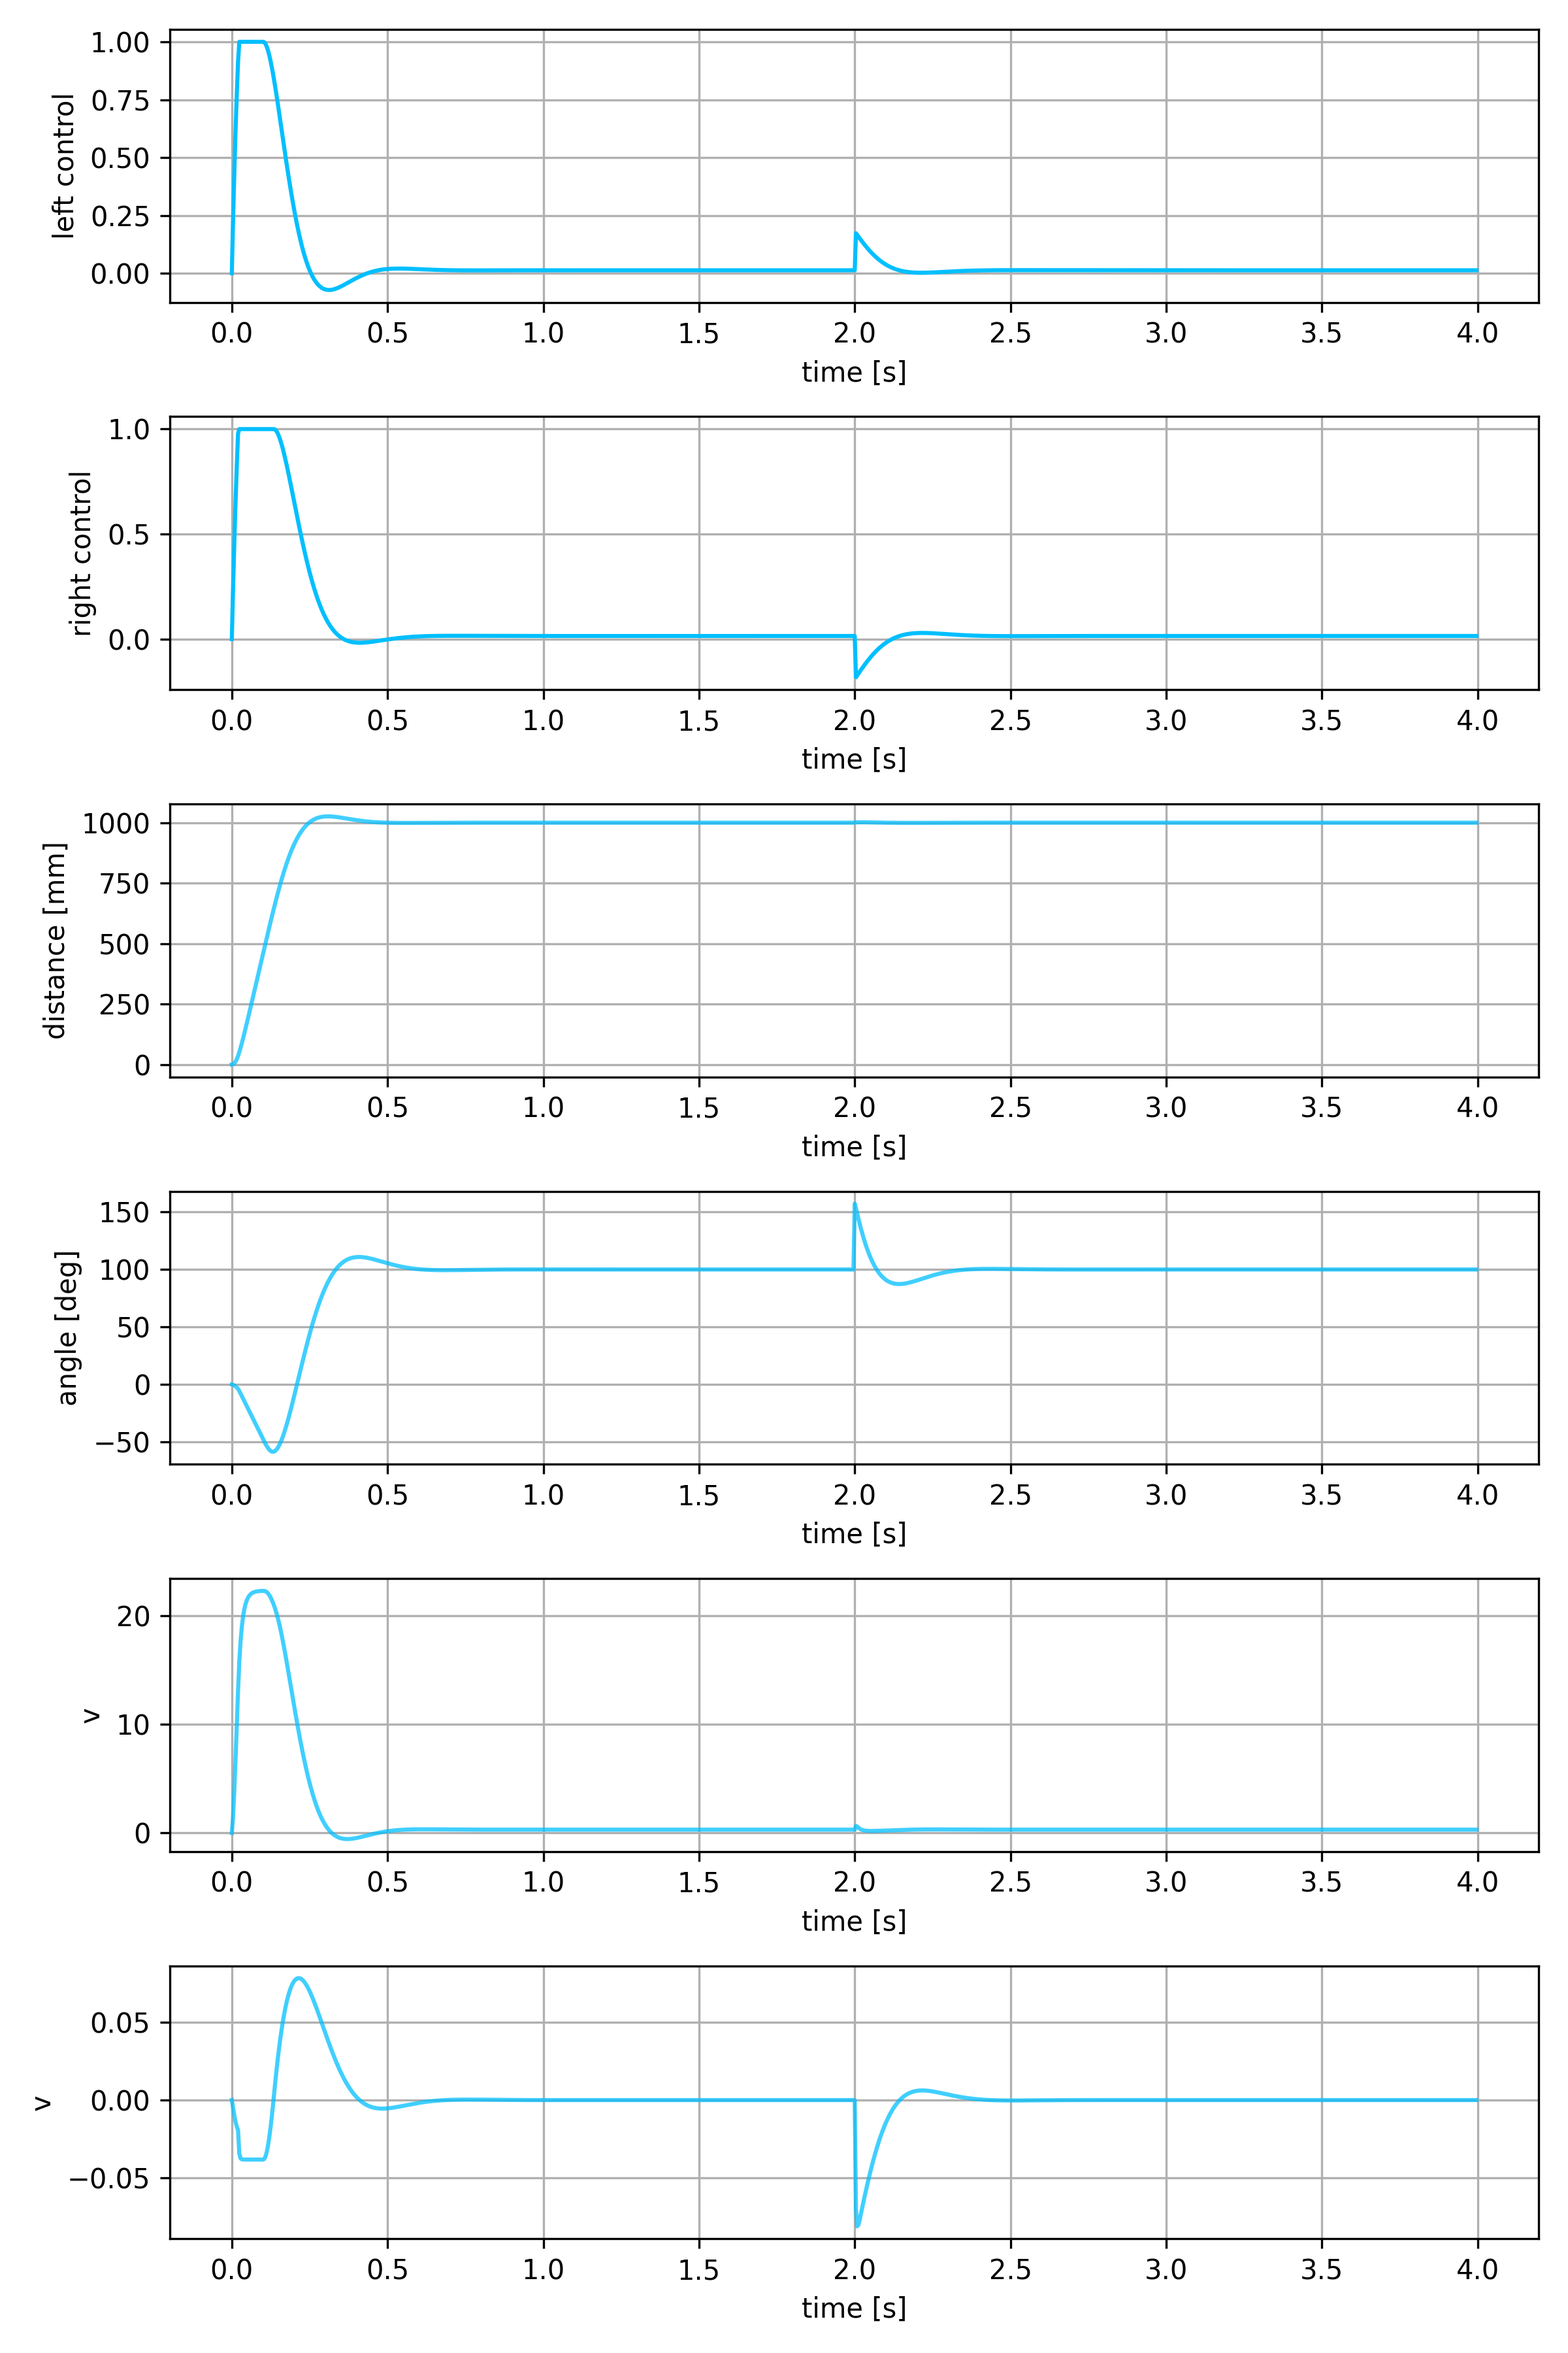
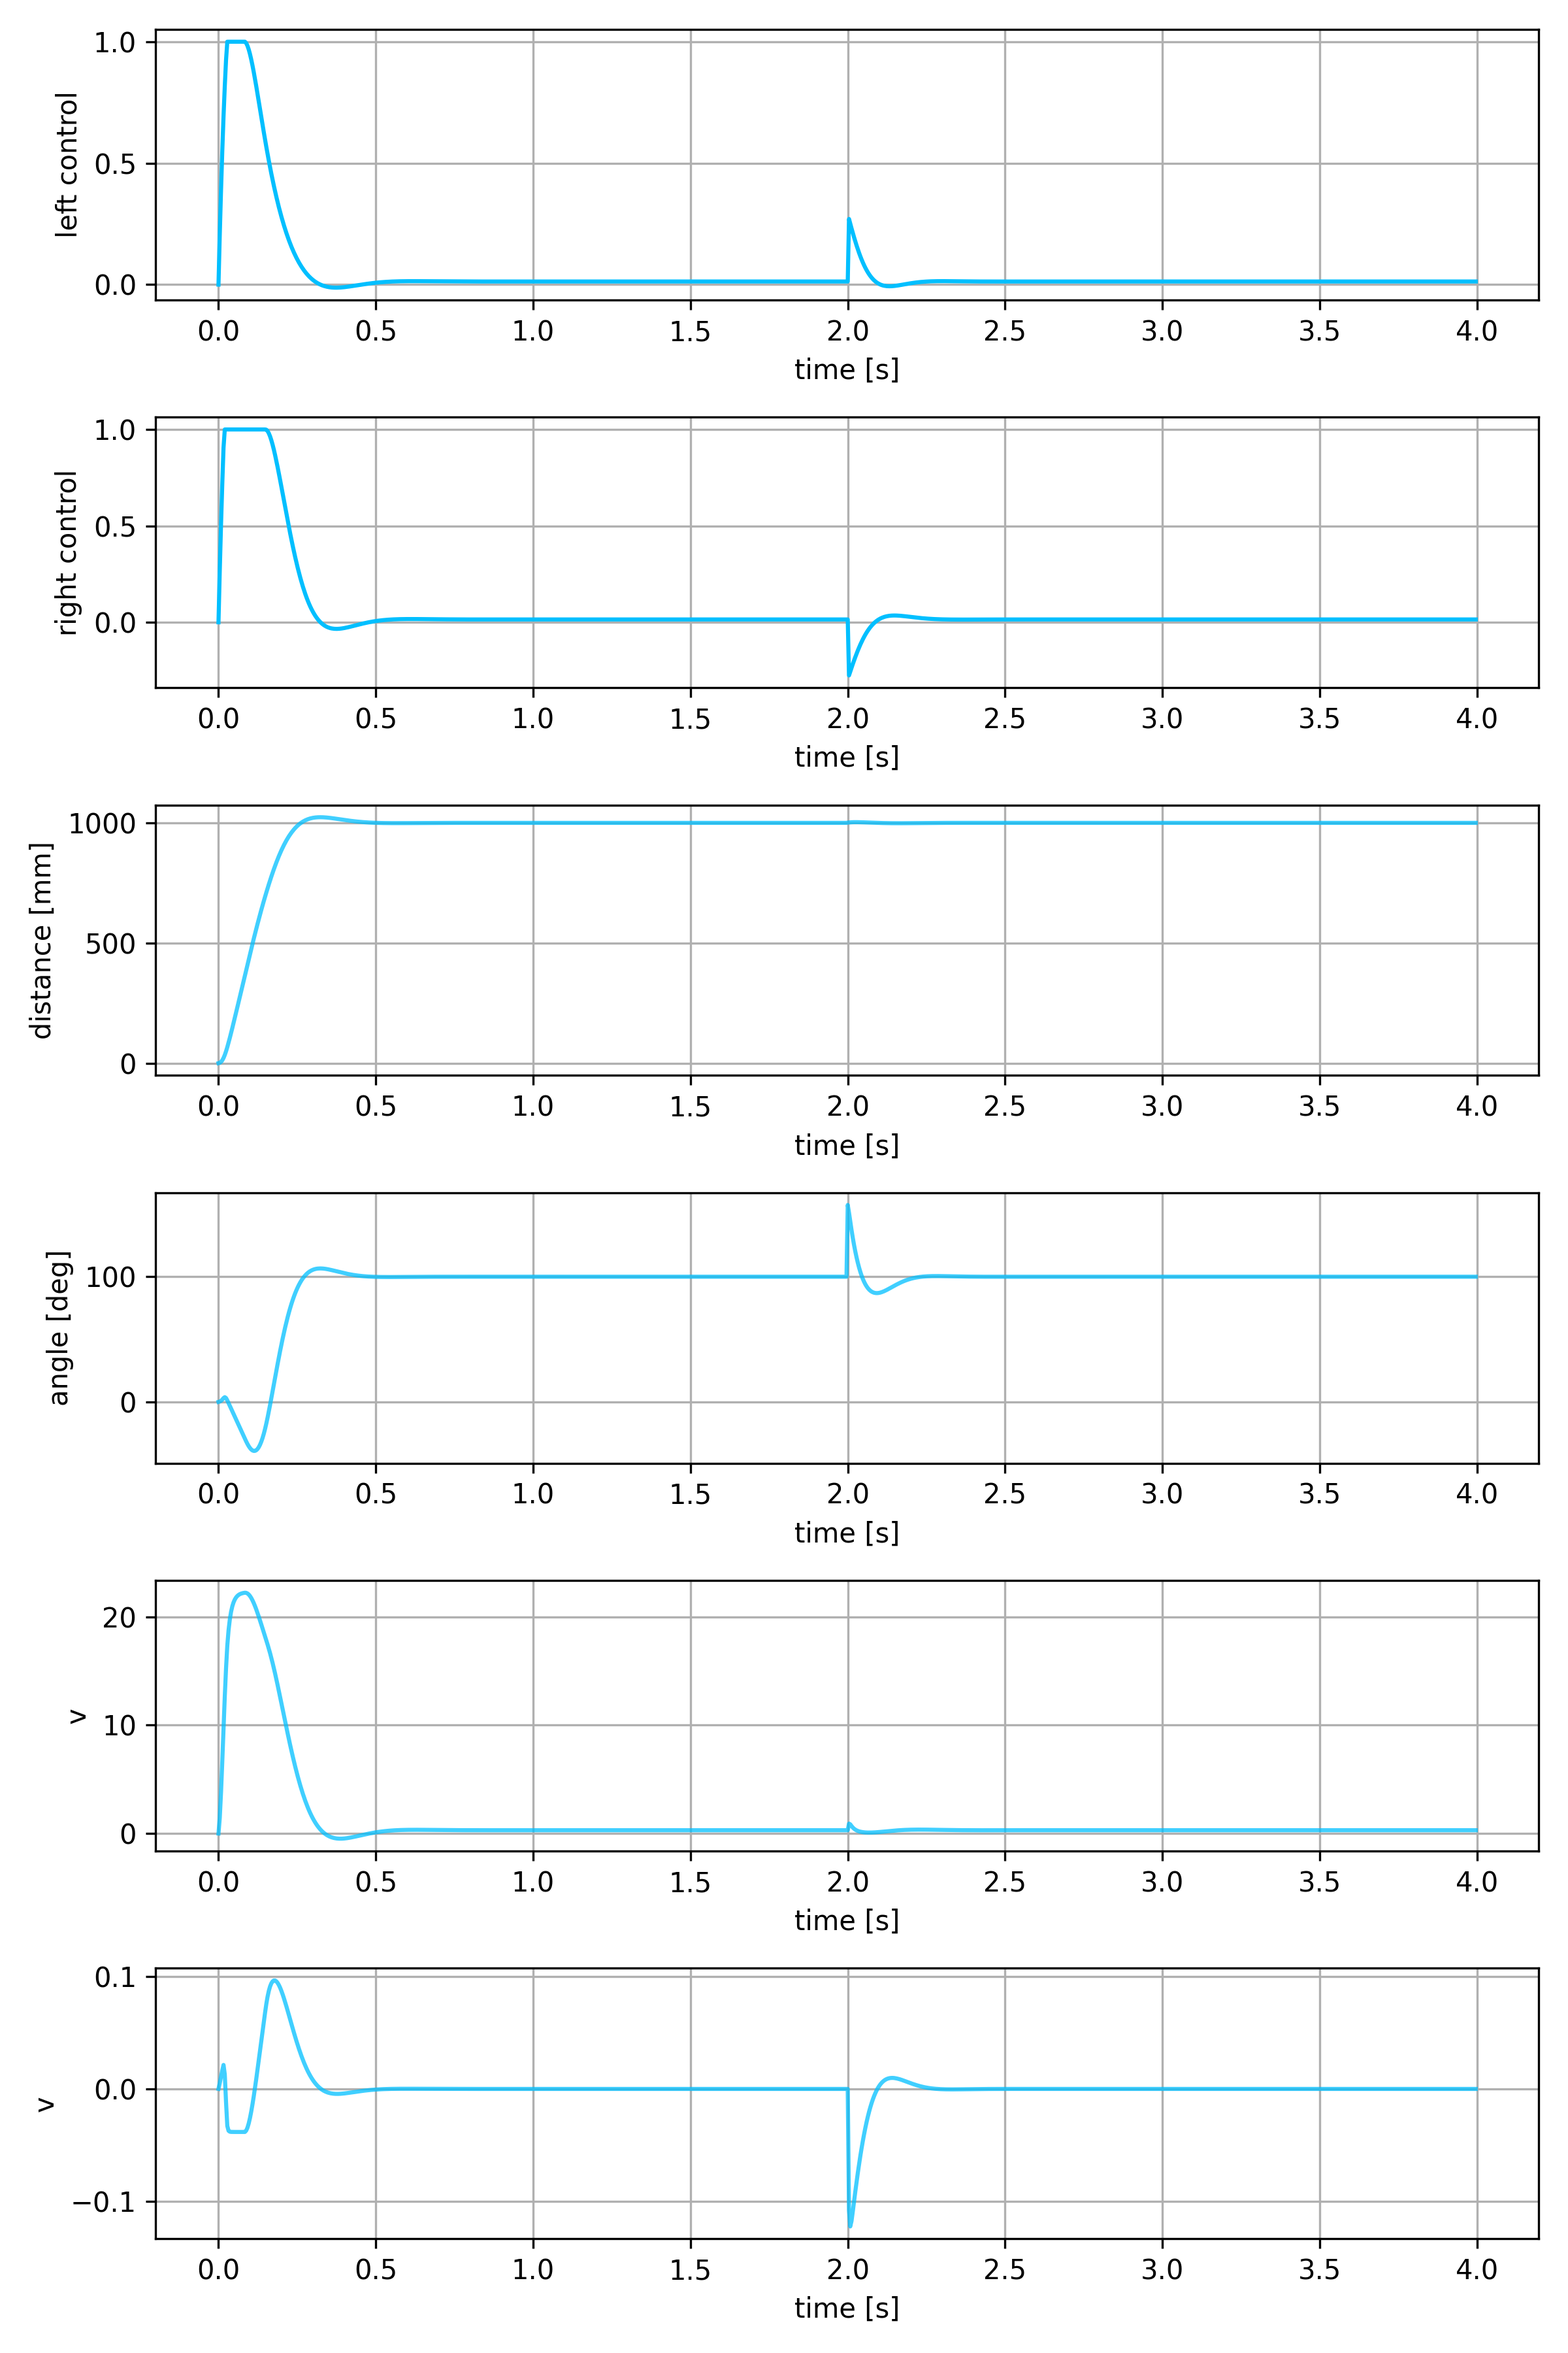
line following

diff --git a/firmware/usr/main.cpp b/firmware/usr/main.cpp
@@ -82,51 +82,7 @@ void broken_line_search(PositionControlLQR &position_control, float d, float ang
 }
 
 
-
 void line_followingA(PositionControlLQR &position_control, float r_min, float r_max, float speed_min, float speed_max)
-{
-  float radius  = 0.0;
-  float speed   = 0.0;
-  
-  float ramp = 1;  
-
-  while (1)
-  {
-    if (line_sensor.line_lost_type == LINE_LOST_NONE)
-    { 
-      float pos = line_sensor.right_position; 
-      float w   = clip(1.2*abs(pos), 0.0, 1.0);      
-
-      radius = (1.0 - w)*r_max + w*r_min; 
-      radius = radius*sgn(pos);     
-
-      float new_speed = (1.0 - w)*speed_max + w*speed_min;
-      speed = clip(speed + ramp, speed_min, new_speed);
-
-      position_control.set_circle_motion(radius, speed);
-    } 
-    else if (line_sensor.line_lost_type == LINE_LOST_LEFT) 
-    {
-      position_control.set(position_control.distance, position_control.angle + 90.0*PI/180.0);
-      speed = 0.0;
-    }
-    else if (line_sensor.line_lost_type == LINE_LOST_RIGHT)
-    {
-      position_control.set(position_control.distance, position_control.angle - 90.0*PI/180.0);
-      speed = 0.0;
-    }
-    else if (line_sensor.line_lost_type == LINE_LOST_CENTER) 
-    {
-      return; 
-    } 
-
-    timer.delay_ms(4);
-  }
-} 
-
-
-
-void line_followingB(PositionControlLQR &position_control, float r_min, float r_max, float speed_min, float speed_max)
 {
   float radius  = 0.0;
   float speed   = 0.0;
@@ -143,6 +99,61 @@ void line_followingB(PositionControlLQR &position_control, float r_min, float r_
 
       radius = (1.0 - wr)*r_max + wr*r_min;   
       radius = radius*sgn(pos);        
+
+      float new_speed = (1.0 - ws)*speed_max + ws*speed_min;
+      speed = clip(speed + ramp, speed_min, new_speed);
+
+    } 
+    else if (line_sensor.line_lost_type == LINE_LOST_LEFT) 
+    {
+      radius = r_min;  
+      speed  = 1.5*speed_min; 
+    }
+    else if (line_sensor.line_lost_type == LINE_LOST_RIGHT)
+    {
+      radius = -r_min;
+      speed  = 1.5*speed_min;
+    }
+    else if (line_sensor.line_lost_type == LINE_LOST_CENTER) 
+    {
+      return; 
+    } 
+
+    position_control.set_circle_motion(radius, speed);
+    timer.delay_ms(4);
+  }
+} 
+
+
+
+float estimate_turn_radius(float sensor_reading, float eps = 0.001)
+{
+  float x = SENSORS_DISTANCE;
+  float y = 0.5*SENSORS_BRACE*abs(sensor_reading);
+
+  float r = (y*y + x*x)/(2.0*y + eps);
+
+  return r;
+}
+
+
+
+void line_followingB(PositionControlLQR &position_control, float r_min, float r_max, float speed_min, float speed_max)
+{
+  float radius  = 0.0;
+  float speed   = 0.0;
+  
+  float ramp = 4;    
+
+  while (1)
+  {
+    if (line_sensor.line_lost_type == LINE_LOST_NONE)
+    { 
+      float pos = line_sensor.left_position; 
+      float ws  = clip(1.5*abs(pos), 0.0, 1.0); 
+      
+      radius = estimate_turn_radius(pos, 1.0/r_max);
+      radius = 5.0*sgn(pos)*clip(radius, r_min, r_max);    
 
       float new_speed = (1.0 - ws)*speed_max + ws*speed_min;
       speed = clip(speed + ramp, speed_min, new_speed);
@@ -265,7 +276,8 @@ int main(void)
 
 
 
-  //line_followingA(position_control, 80.0, 1000.0, 50.0, 300.0);
+  
+  //line_followingA(position_control, 80.0, 1000.0, 80.0, 300.0);
   line_followingB(position_control, 80.0, 1000.0, 80.0, 300.0);
 
   /* 

diff --git a/firmware/usr/position_control_lqr.cpp b/firmware/usr/position_control_lqr.cpp
@@ -45,17 +45,36 @@ void PositionControlLQR::init()
     distance_shaper.init(dist_ramp, 0.98);
     angle_shaper.init(angle_ramp, 0.2);
 
-    
+    /*
     // q = 10**-7, 10**-3
     float k[] = {
-		  0.0052, -0.17, 0.01, -0.12, 
-		  0.0052,  0.17, 0.01,  0.12 };
+		0.0052479296, -0.33005857, 0.011264713, 0.08377834, 
+		0.0052479296, 0.33005857, 0.011264713, 0.08377834 };
 
     float ki[] = {
-		  0.00023, -0.0073, 0.0, 0.0, 
-		  0.00023,  0.0073, 0.0, 0.0 };
-    
+		0.00023484259, -0.024085023, 0.0, 0.0, 
+		0.00023484259, 0.024085023, 0.0, 0.0 };
+    */
 
+    // q = 10**-7, 0.5*10**-4 
+    float k[] = {
+		0.005248046, -0.27352497, 0.011264535, 0.08430575, 
+		0.005248046, 0.27352497, 0.011264535, 0.08430575 };
+
+    float ki[] = {
+		0.00023489761, -0.016833698, 0.0, 0.0, 
+		0.00023489761, 0.016833698, 0.0, 0.0 };
+    
+    /*
+    // q = 10**-7, 10**-4
+    float k[] = {
+		0.0052446346, -0.17818446, 0.011256655, -0.084595665, 
+		0.0052446346, 0.17818446, 0.011256655,   0.084595665 };
+
+    float ki[] = {
+		0.000234812, -0.007370741, 0.0, 0.0, 
+		0.000234812, 0.007370741, 0.0, 0.0 };
+    */
 
     //controller init
     lqr.init(k, ki, 1.0);
